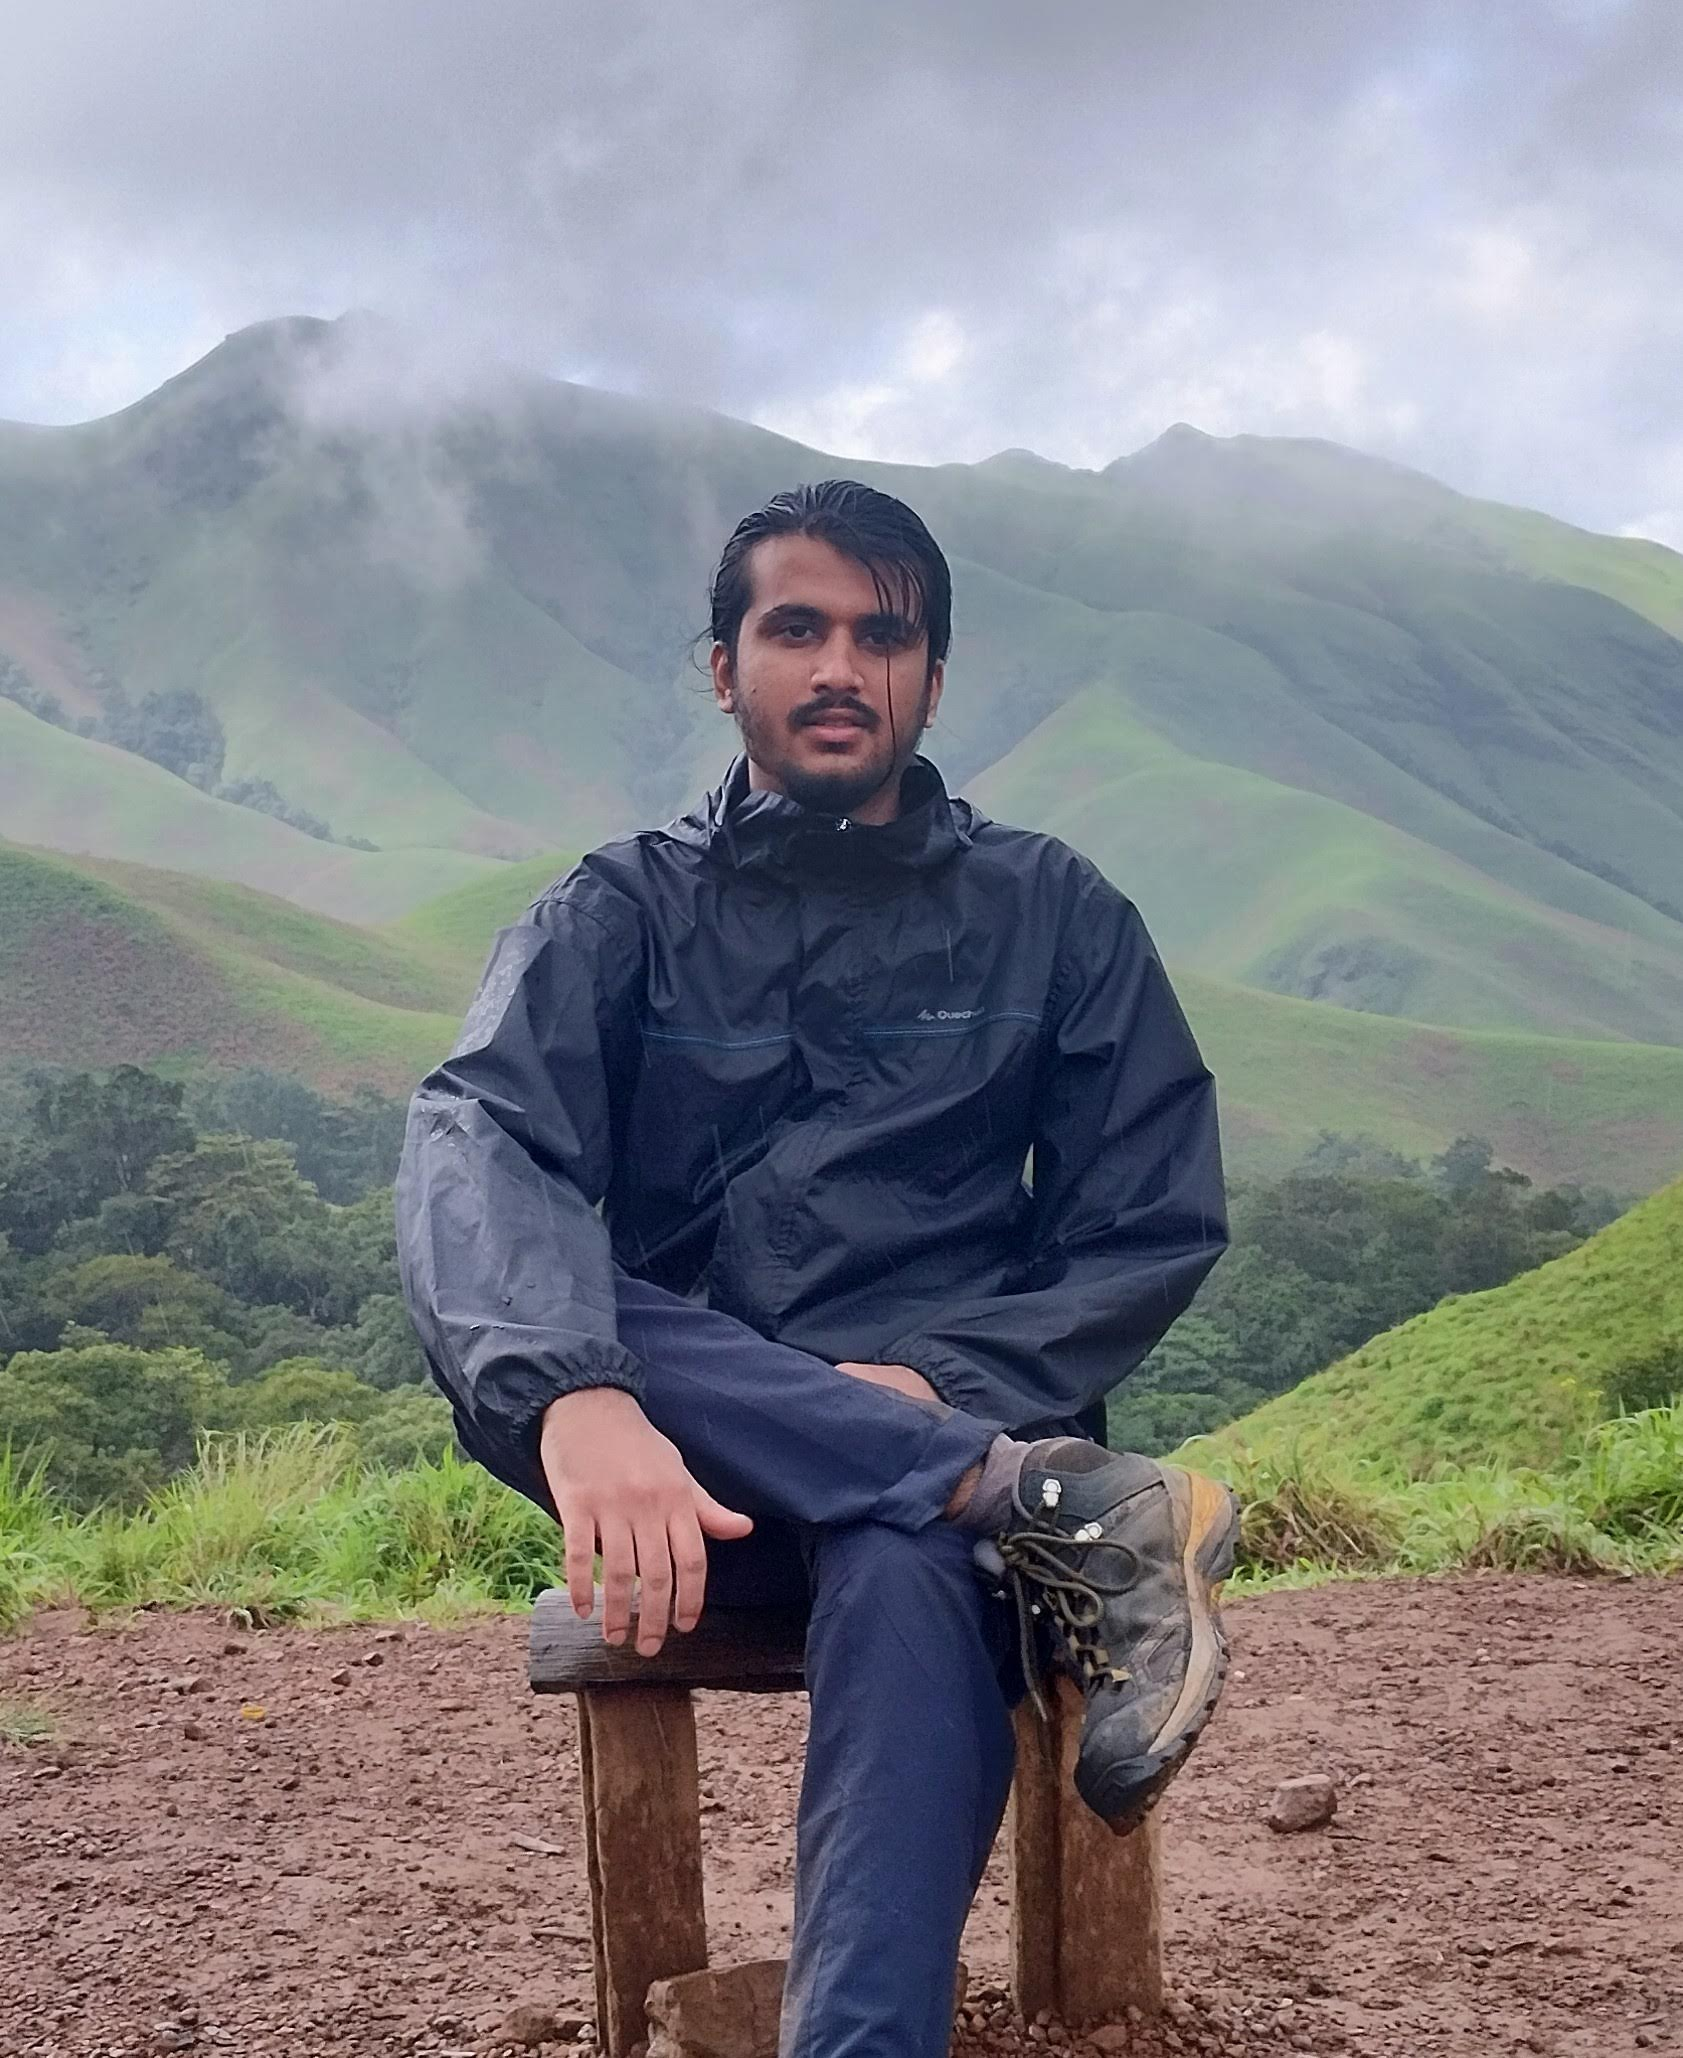
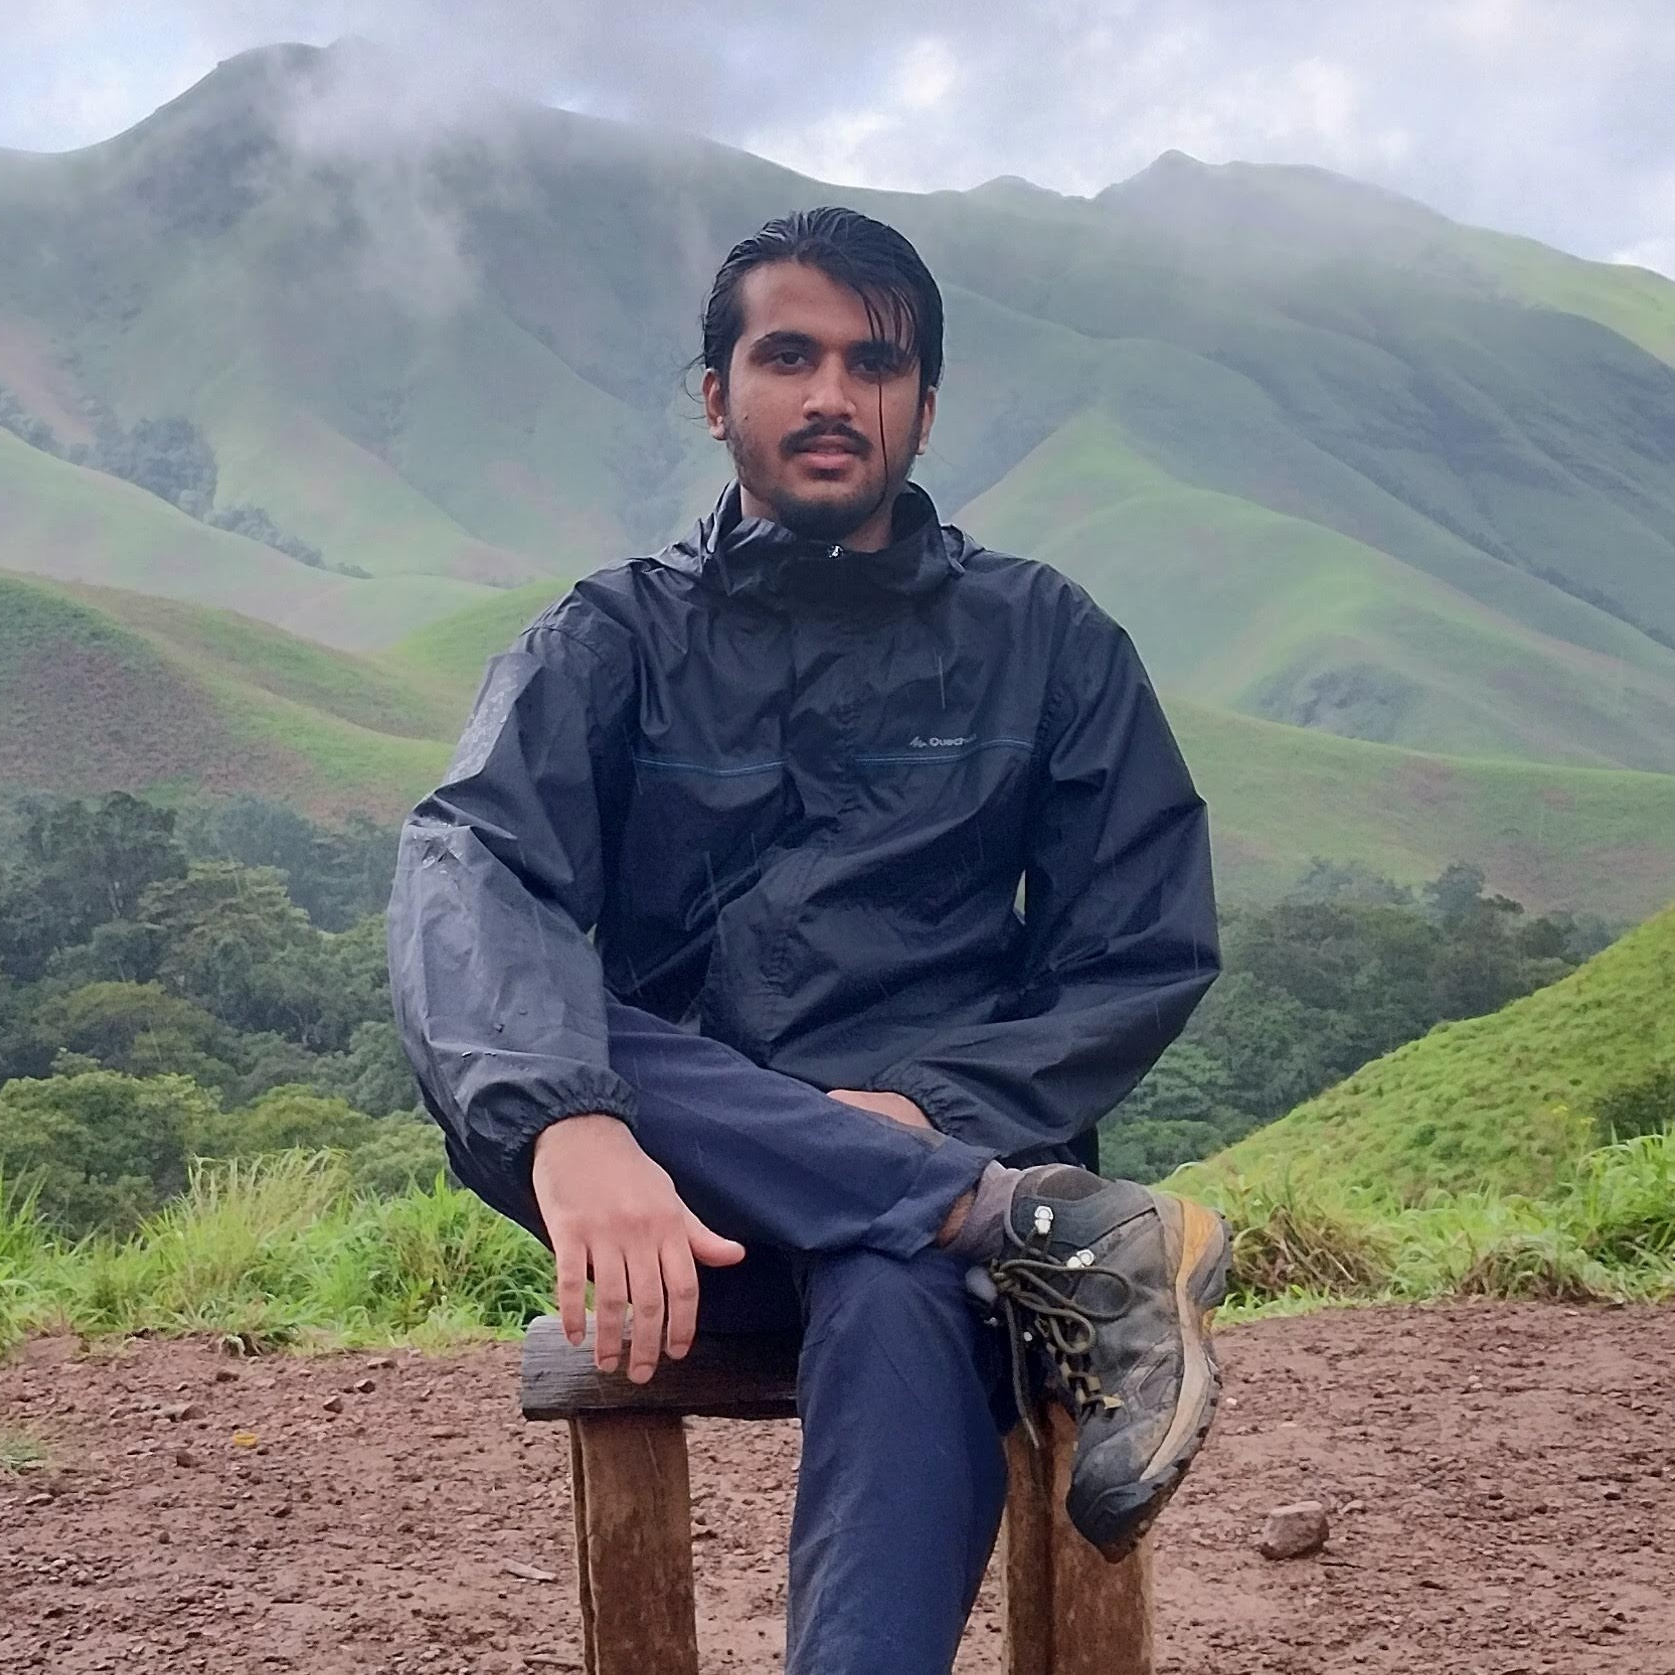
updated aaroha's profile

diff --git a/docs/index.html b/docs/index.html
@@ -262,7 +262,7 @@ window.Quarto = {
 <!-- margin-sidebar -->
     <div id="quarto-margin-sidebar" class="sidebar margin-sidebar">
         
-    <h5 class="quarto-listing-category-title">Categories</h5><div class="quarto-listing-category category-default"><div class="category" data-category="">All <span class="quarto-category-count">(37)</span></div><div class="category" data-category="UGhEJTIwc3R1ZGVudA==">PhD student <span class="quarto-category-count">(7)</span></div><div class="category" data-category="ZmFjdWx0eQ==">faculty <span class="quarto-category-count">(12)</span></div><div class="category" data-category="bWVtYmVy">member <span class="quarto-category-count">(1)</span></div><div class="category" data-category="cGFzdCUyMHdvcmtpbmclMjBncm91cA==">past working group <span class="quarto-category-count">(5)</span></div><div class="category" data-category="cG9zdGRvYw==">postdoc <span class="quarto-category-count">(3)</span></div><div class="category" data-category="cHJvamVjdCUyMG1hbmFnZXI=">project manager <span class="quarto-category-count">(4)</span></div><div class="category" data-category="cmVzZWFyY2glMjBhc3Npc3RhbnQ=">research assistant <span class="quarto-category-count">(2)</span></div><div class="category" data-category="c2NpZW50aXN0">scientist <span class="quarto-category-count">(8)</span></div><div class="category" data-category="c3R1ZGVudA==">student <span class="quarto-category-count">(1)</span></div><div class="category" data-category="d29ya2luZyUyMGdyb3Vw">working group <span class="quarto-category-count">(6)</span></div></div></div>
+    <h5 class="quarto-listing-category-title">Categories</h5><div class="quarto-listing-category category-default"><div class="category" data-category="">All <span class="quarto-category-count">(37)</span></div><div class="category" data-category="UGhEJTIwc3R1ZGVudA==">PhD student <span class="quarto-category-count">(7)</span></div><div class="category" data-category="ZmFjdWx0eQ==">faculty <span class="quarto-category-count">(12)</span></div><div class="category" data-category="cGFzdCUyMHdvcmtpbmclMjBncm91cA==">past working group <span class="quarto-category-count">(5)</span></div><div class="category" data-category="cG9zdGRvYw==">postdoc <span class="quarto-category-count">(3)</span></div><div class="category" data-category="cHJvamVjdCUyMG1hbmFnZXI=">project manager <span class="quarto-category-count">(4)</span></div><div class="category" data-category="cmVzZWFyY2glMjBhc3Npc3RhbnQ=">research assistant <span class="quarto-category-count">(2)</span></div><div class="category" data-category="c2NpZW50aXN0">scientist <span class="quarto-category-count">(8)</span></div><div class="category" data-category="c3R1ZGVudA==">student <span class="quarto-category-count">(1)</span></div><div class="category" data-category="d29ya2luZyUyMGdyb3Vw">working group <span class="quarto-category-count">(6)</span></div></div></div>
 <!-- main -->
 <main class="content quarto-banner-title-block" id="quarto-document-content">
 
@@ -293,7 +293,7 @@ research assistant
 </div>
 </a>
 </div>
-<div class="g-col-1" data-index="1" data-categories="bWVtYmVyJTJDUGhEJTIwc3R1ZGVudA==" data-listing-file-modified-sort="1783085500256" data-listing-reading-time-sort="2" data-listing-word-count-sort="247">
+<div class="g-col-1" data-index="1" data-categories="UGhEJTIwc3R1ZGVudA==" data-listing-file-modified-sort="1783316489217" data-listing-reading-time-sort="2" data-listing-word-count-sort="247">
 <a href="./files/Aaroha_Malagi.html" class="quarto-grid-link">
 <div class="quarto-grid-item card h-100 card-left">
 <p class="card-img-top"><img src="files/member_profiles/M37.jpg" alt="Aaroha Malagi" style="height: 160px;"  class="thumbnail-image card-img"/></p>
@@ -302,9 +302,6 @@ research assistant
 Aaroha Malagi
 </h5>
 <div class="listing-categories">
-<div class="listing-category" onclick="window.quartoListingCategory('bWVtYmVy'); return false;">
-member
-</div>
 <div class="listing-category" onclick="window.quartoListingCategory('UGhEJTIwc3R1ZGVudA=='); return false;">
 PhD student
 </div>

diff --git a/docs/files/Aaroha_Malagi.html b/docs/files/Aaroha_Malagi.html
@@ -176,7 +176,6 @@ gtag('config', 'G-VQWEDXB42E', { 'anonymize_ip': true});
 <div class="quarto-title">
 <h1 class="title">Aaroha Malagi</h1>
   <div class="quarto-categories">
-    <div class="quarto-category">member</div>
     <div class="quarto-category">PhD student</div>
   </div>
   </div>
